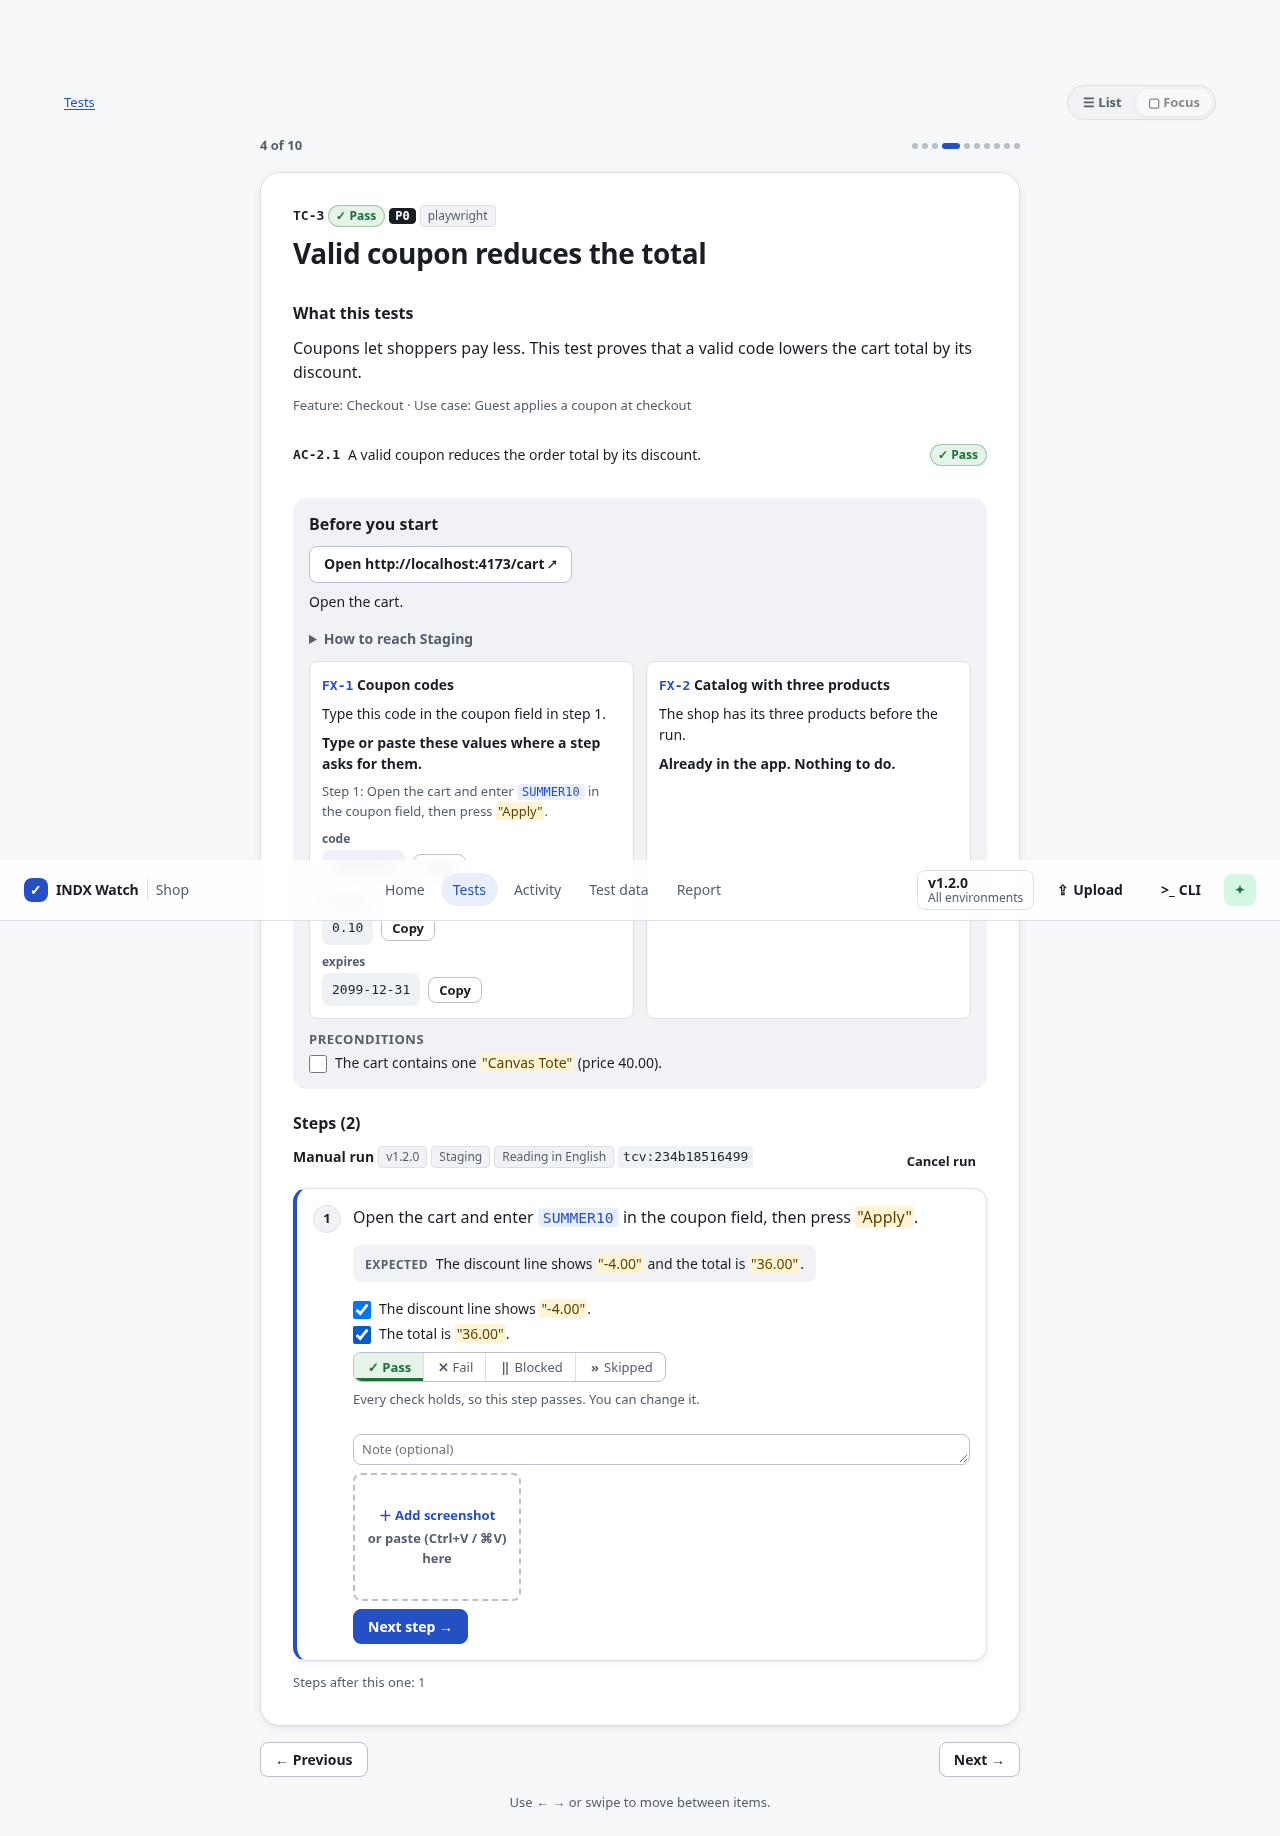
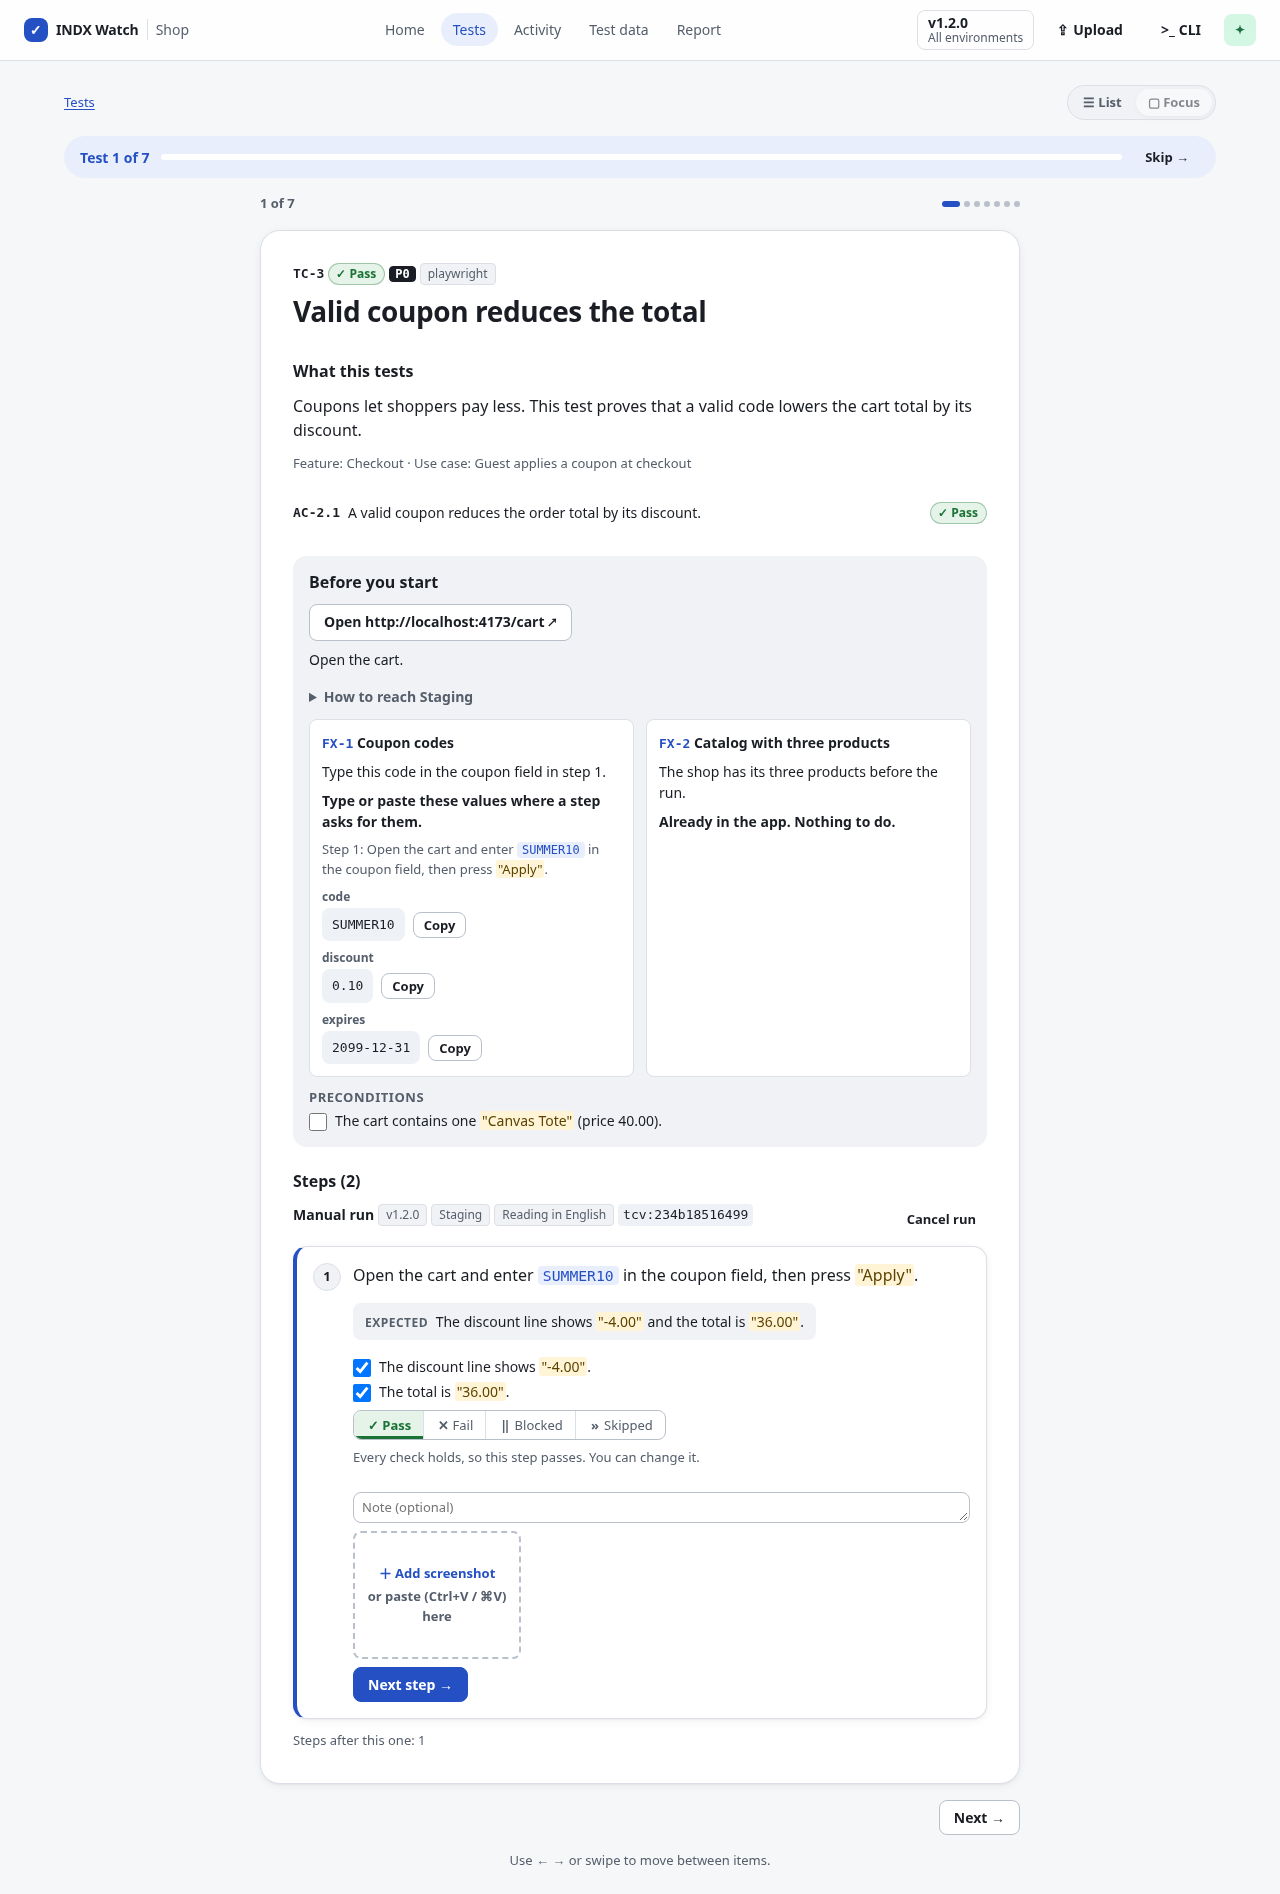
docs: fix T-409 run screenshot and align guide text with the home docs
Re-capture test-case-run-1280.png with a static top bar so it no longer
covers the FX-1 card, keep the agent mode's typical judges as in
concepts.md, quote TC-3's purpose in the guided-run example and describe
the phone screenshot as what it shows.

Claude-Session: https://claude.ai/code/session_01JuSh7chXMjY9jyA2Aqd5Aw

diff --git a/docs/guides/writing-test-cases.md b/docs/guides/writing-test-cases.md
@@ -113,7 +113,7 @@ Say on each fixture reference what the tester does with it (`use`, `note`; see [
 | ------------ | ------------------------------------------------------------------------------------------------------------------------- | ---------------- |
 | `manual`     | A person follows the steps in the browser runner (or records with `iw record`)                                            | `human`          |
 | `playwright` | A Playwright test tagged `@TC-n` implements it; list the file in `[automation] files` ([Playwright guide](playwright.md)) | `assert`         |
-| `agent`      | An LLM browser agent follows the plain-language steps (`iw run`)                                                          | `llm`            |
+| `agent`      | An LLM browser agent follows the plain-language steps (`iw run`)                                                          | `assert` + `llm` |
 | `hybrid`     | An agent or script executes, a person confirms; always ends in `needs_review` until a human judges                        | any + `human`    |
 
 Write the steps of a `playwright` test case as carefully as a manual one: they are the specification the test implements, and step results map by number when the test uses `test.step('1. …')`.

diff --git a/docs/guides/quickstart.md b/docs/guides/quickstart.md
@@ -66,7 +66,7 @@ The agent finds the data each test case needs and says what the tester does with
 
 "My features" are the features you own. For Alex, who owns Checkout, that is TC-3–TC-6: the agent runs the Playwright tests of TC-3, TC-4 and TC-5 and reports each in one line. For a manual test case such as TC-6, or when you ask to be walked through one, it first explains the test in three lines:
 
-> **What it checks:** a guest gets the coupon's discount (AC-2.1).
+> **What it checks:** coupons let shoppers pay less; a valid code lowers the cart total by its discount (AC-2.1).
 > **Where to start:** open http://localhost:4173/cart with one "Canvas Tote" (40.00) in the cart; use the coupon code SUMMER10 from FX-1.
 > **What to look for:** after "Apply", the discount line shows "-4.00" and the total "36.00"; after "Place order", an order number.
 

diff --git a/docs/guides/testing-with-agents.md b/docs/guides/testing-with-agents.md
@@ -96,7 +96,7 @@ The web app shows the same test case on one page, so you can also run it there: 
 
 ![TC-9 on one page: What this tests, Before you start with the FX-3 account card and the FX-4 photo download, Steps with checks, Result and Run manually](../design/screenshots/test-case-1280.png)
 
-On a phone the page keeps the same order, with Run manually at the bottom:
+On a phone the page keeps the same order. The top of TC-6 at 390 px wide:
 
 ![TC-6 at 390 px wide: What this tests, the covered criterion and Before you start with the Open link](../design/screenshots/test-case-390.png)
 
